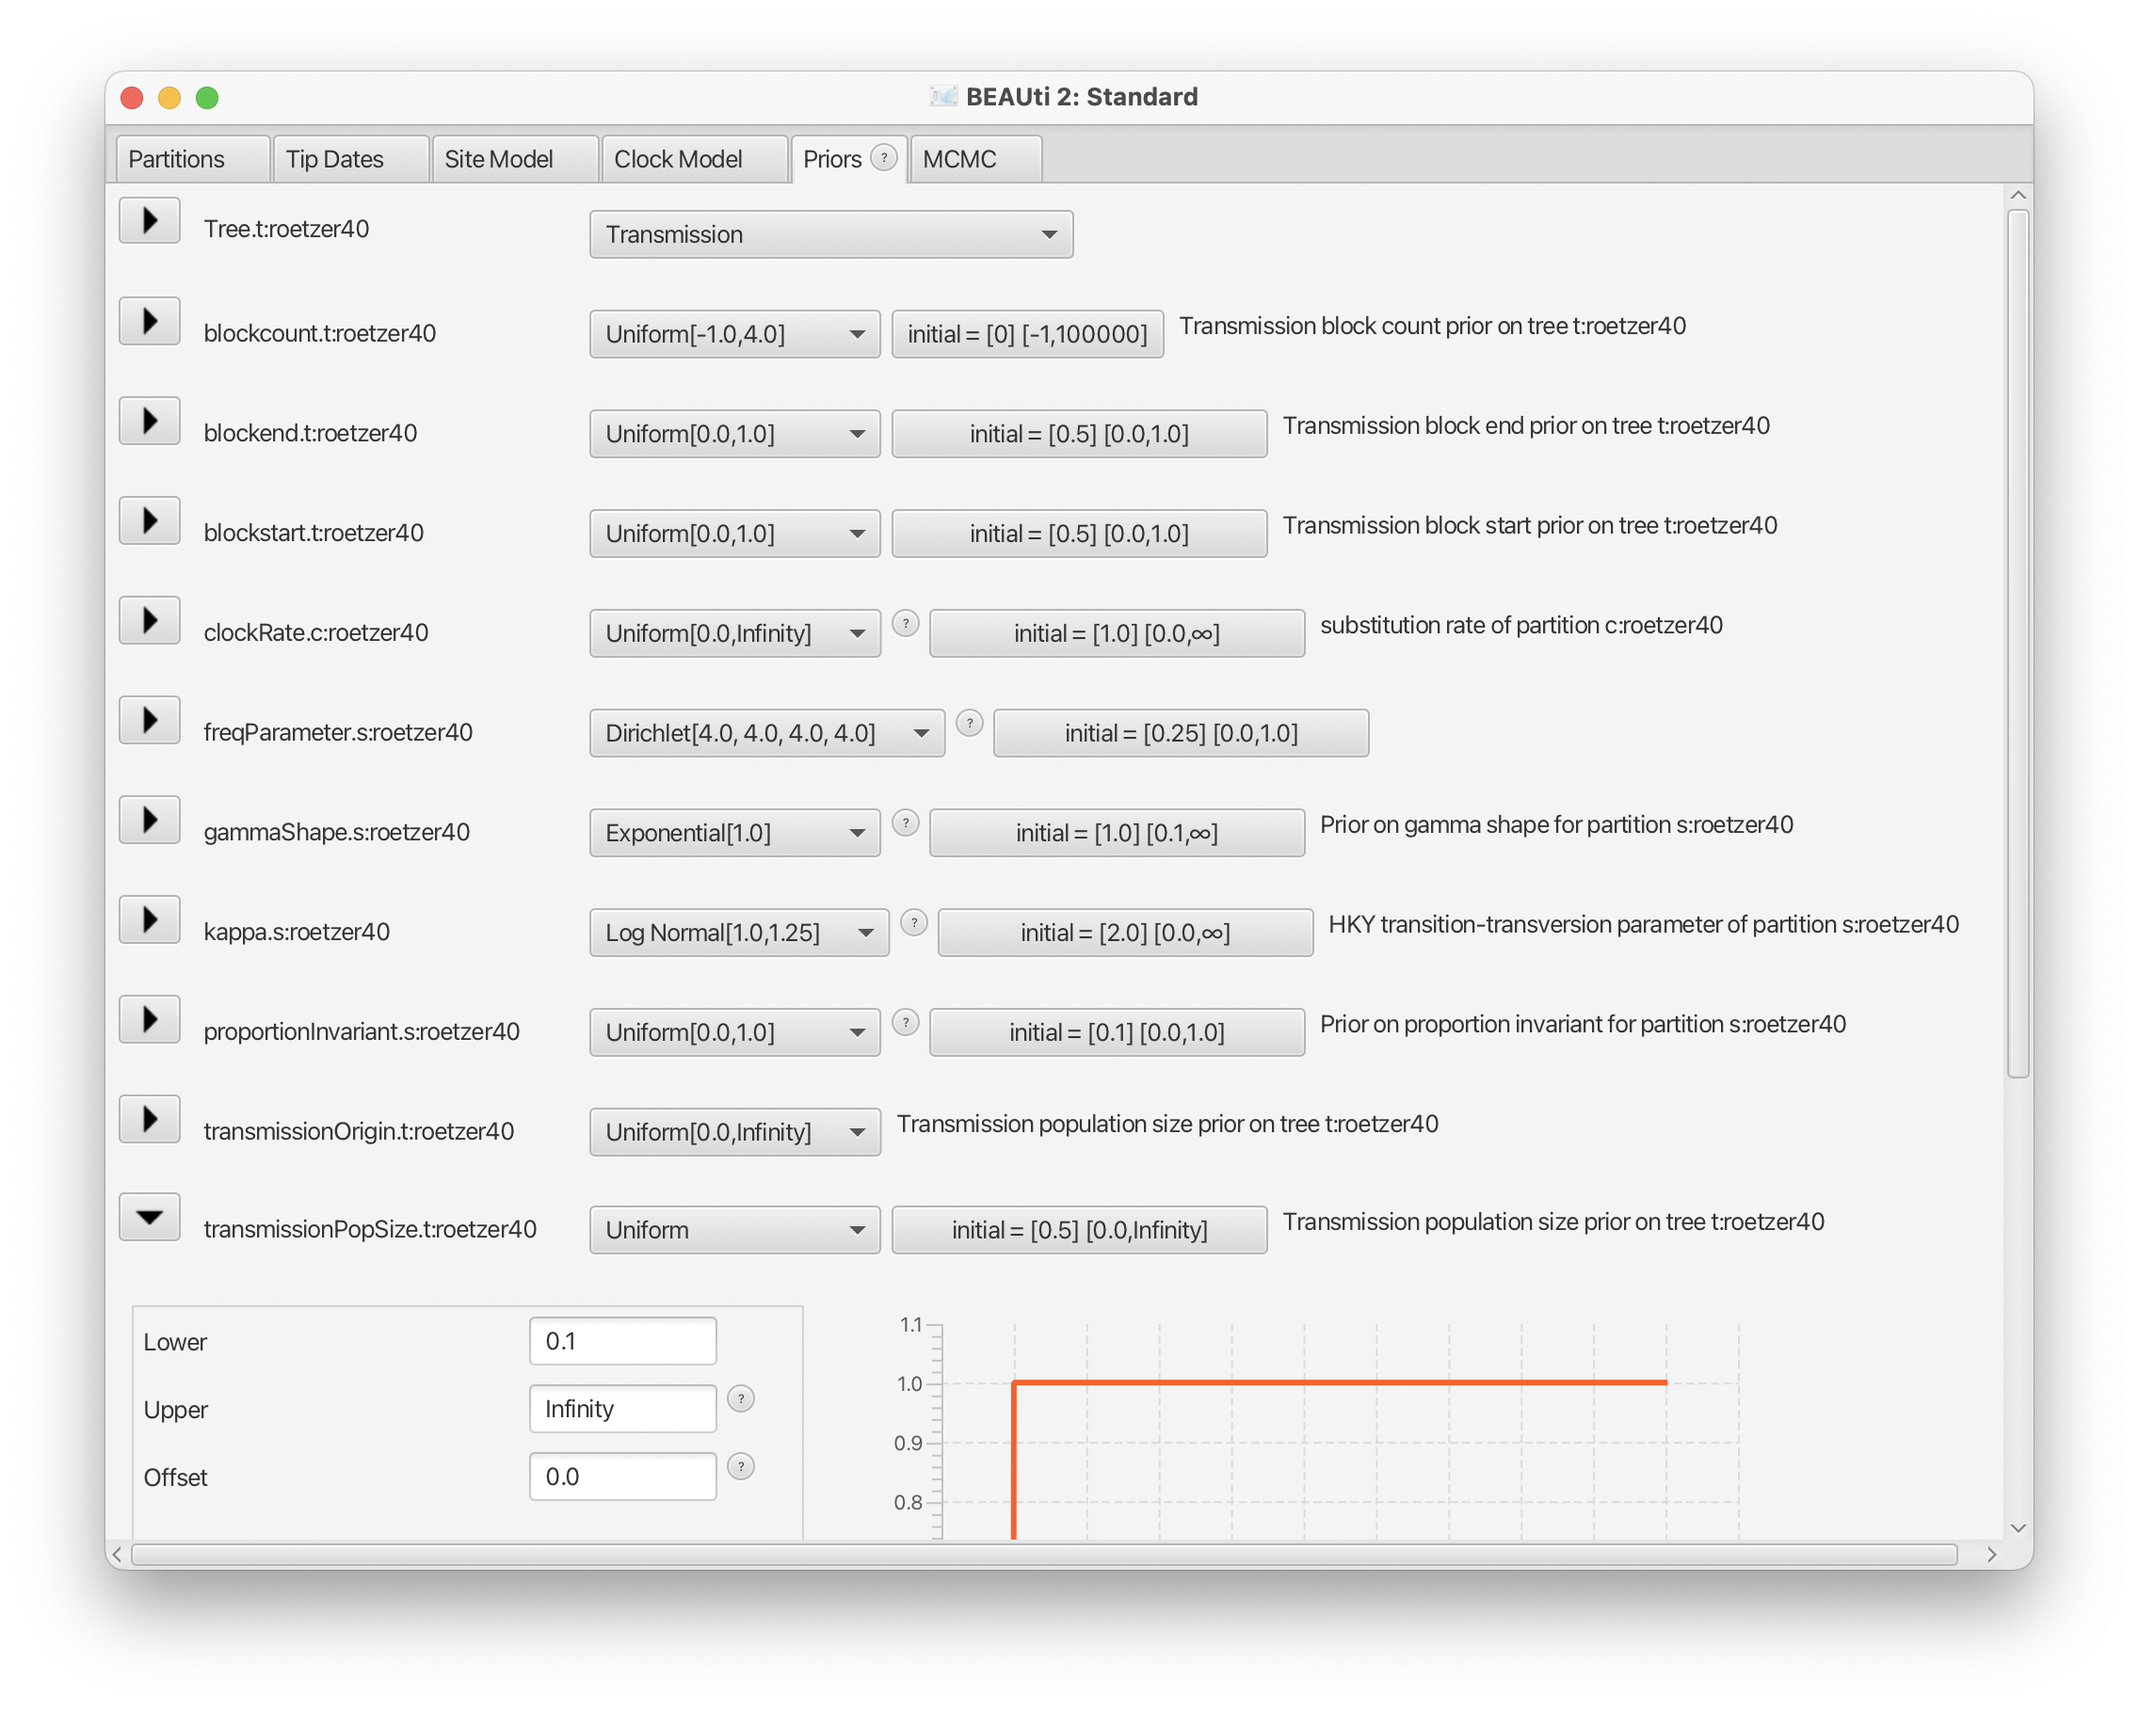
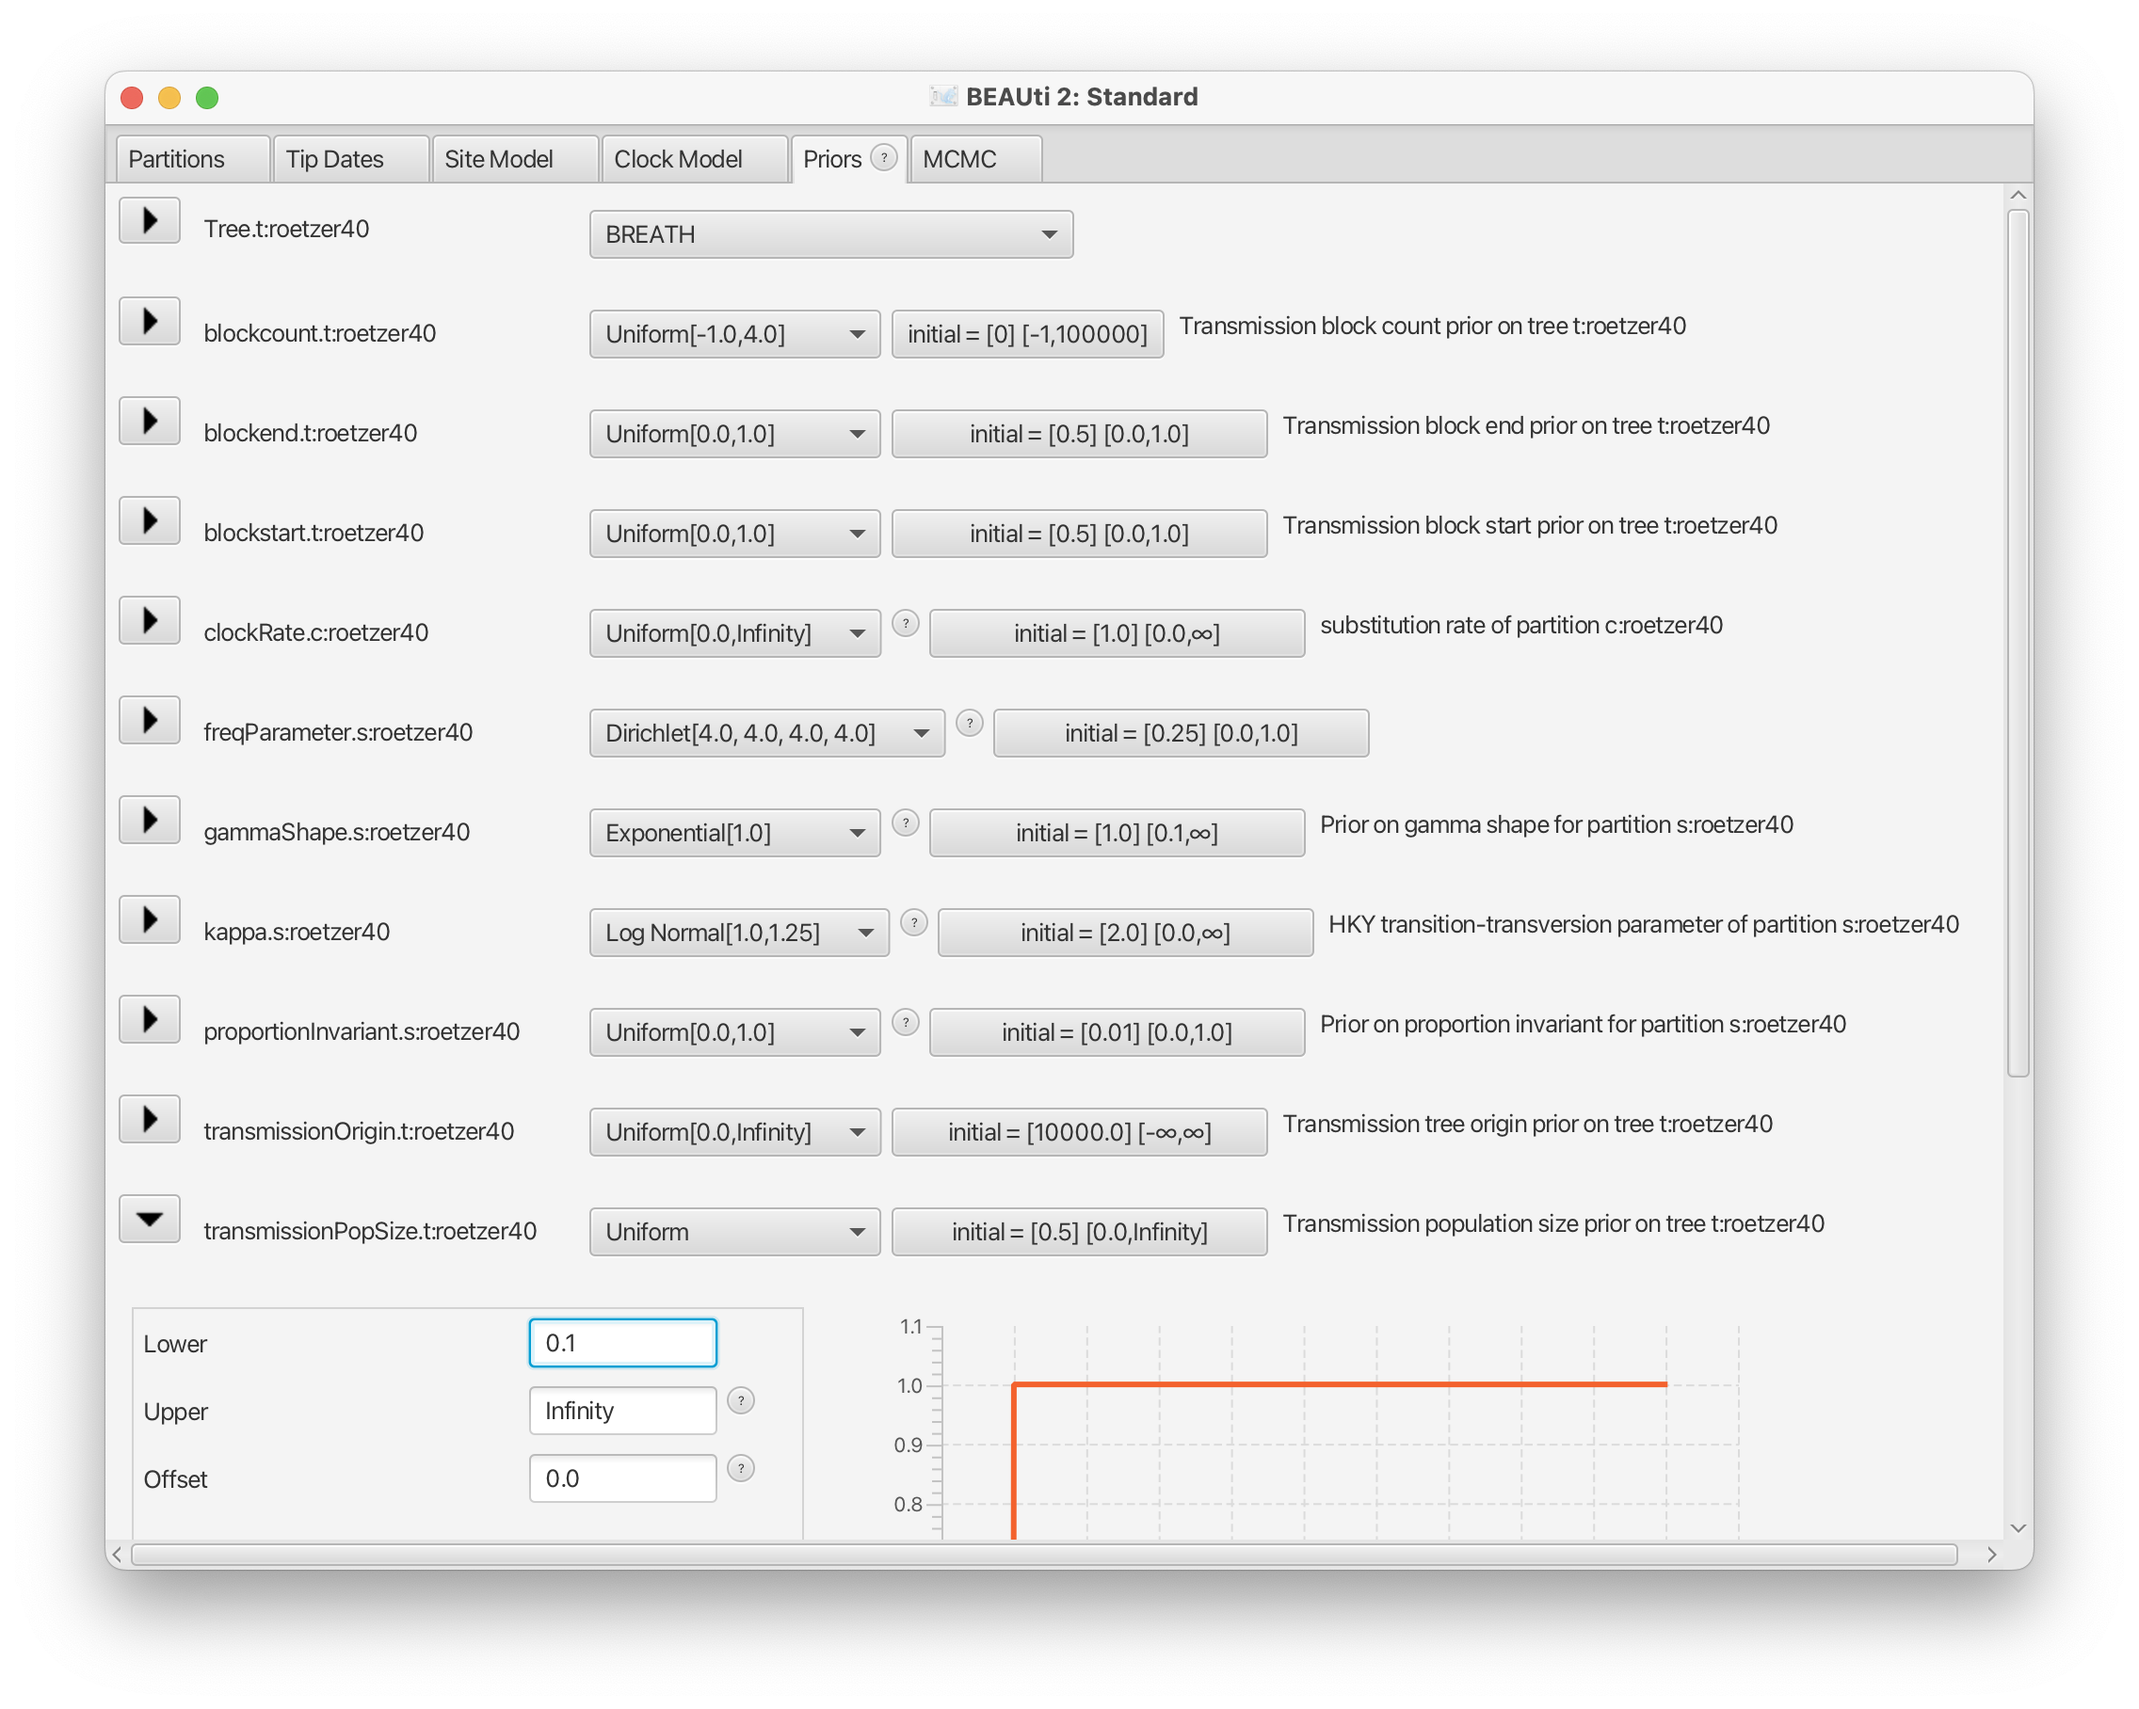
update screen shots + reparameterise deltaStartTime -> origin

diff --git a/src/breath/distribution/TransmissionTreeLikelihood.java b/src/breath/distribution/TransmissionTreeLikelihood.java
@@ -36,7 +36,7 @@ public class TransmissionTreeLikelihood extends TreeDistribution {
 //    final public Input<IntegerParameter> colourInput = new Input<>("colour", "colour of the base of the branch", Validate.REQUIRED);
     final public Input<PopulationFunction> popSizeInput = new Input<>("populationModel", "A population size model", Validate.REQUIRED);
 
-    final public Input<Function> deltaStartTimeInput = new Input<>("deltaStartTime", "time at which the study start till root of tree", new Constant("0.0"));
+    final public Input<Function> originInput = new Input<>("origin", "time at which the study start above the root of tree. Assumed to be at root if not specified");
     final public Input<RealParameter> endTimeInput = new Input<>("endTime", "time at which the study finished", Validate.REQUIRED);
     //final public Input<RealParameter> lambdaTrInput = new Input<>("lambda", "lambda parameter of Poisson process", Validate.REQUIRED);
     
@@ -58,7 +58,7 @@ public class TransmissionTreeLikelihood extends TreeDistribution {
     private int [] colourAtBase;
     private PopulationFunction popSizeFunction;
     private Validator validator;
-    private Function deltaStartTime;
+    private Function origin;
     
     // hazard functions for sampling and transmission respectively
 
@@ -110,7 +110,7 @@ public class TransmissionTreeLikelihood extends TreeDistribution {
     	
     	validator = new Validator(tree, colourAtBase, blockCount, blockStartFraction, blockEndFraction);    	
 
-    	deltaStartTime = deltaStartTimeInput.get();
+    	origin = originInput.get();
     	endTime = endTimeInput.get();
 		// lambda_tr = lambdaTrInput.get();
 		samplingHazard = samplingHazardInput.get();
@@ -191,7 +191,11 @@ public class TransmissionTreeLikelihood extends TreeDistribution {
     		segments = collectSegments();
     	}
 
-
+    	if (origin != null) {
+    		if (origin.getArrayValue() < tree.getRoot().getHeight()) {
+    			return Double.NEGATIVE_INFINITY;
+    		}
+    	}
     	
 //System.err.println("\n#contribution of sampled cases");
 		// contribution of sampled cases
@@ -561,7 +565,8 @@ public class TransmissionTreeLikelihood extends TreeDistribution {
 		
 		// set origin in segment at root
 		int colour = colourAtBase[tree.getNodeCount()-1];
-		((SegmentIntervalList) segments.get(colour)).birthTime = tree.getRoot().getHeight() + deltaStartTime.getArrayValue(); 
+		((SegmentIntervalList) segments.get(colour)).birthTime =
+				origin != null ? origin.getArrayValue() : tree.getRoot().getHeight(); 
 		
 		for (IntervalList intervals : segments) {
 			if (intervals != null) {
